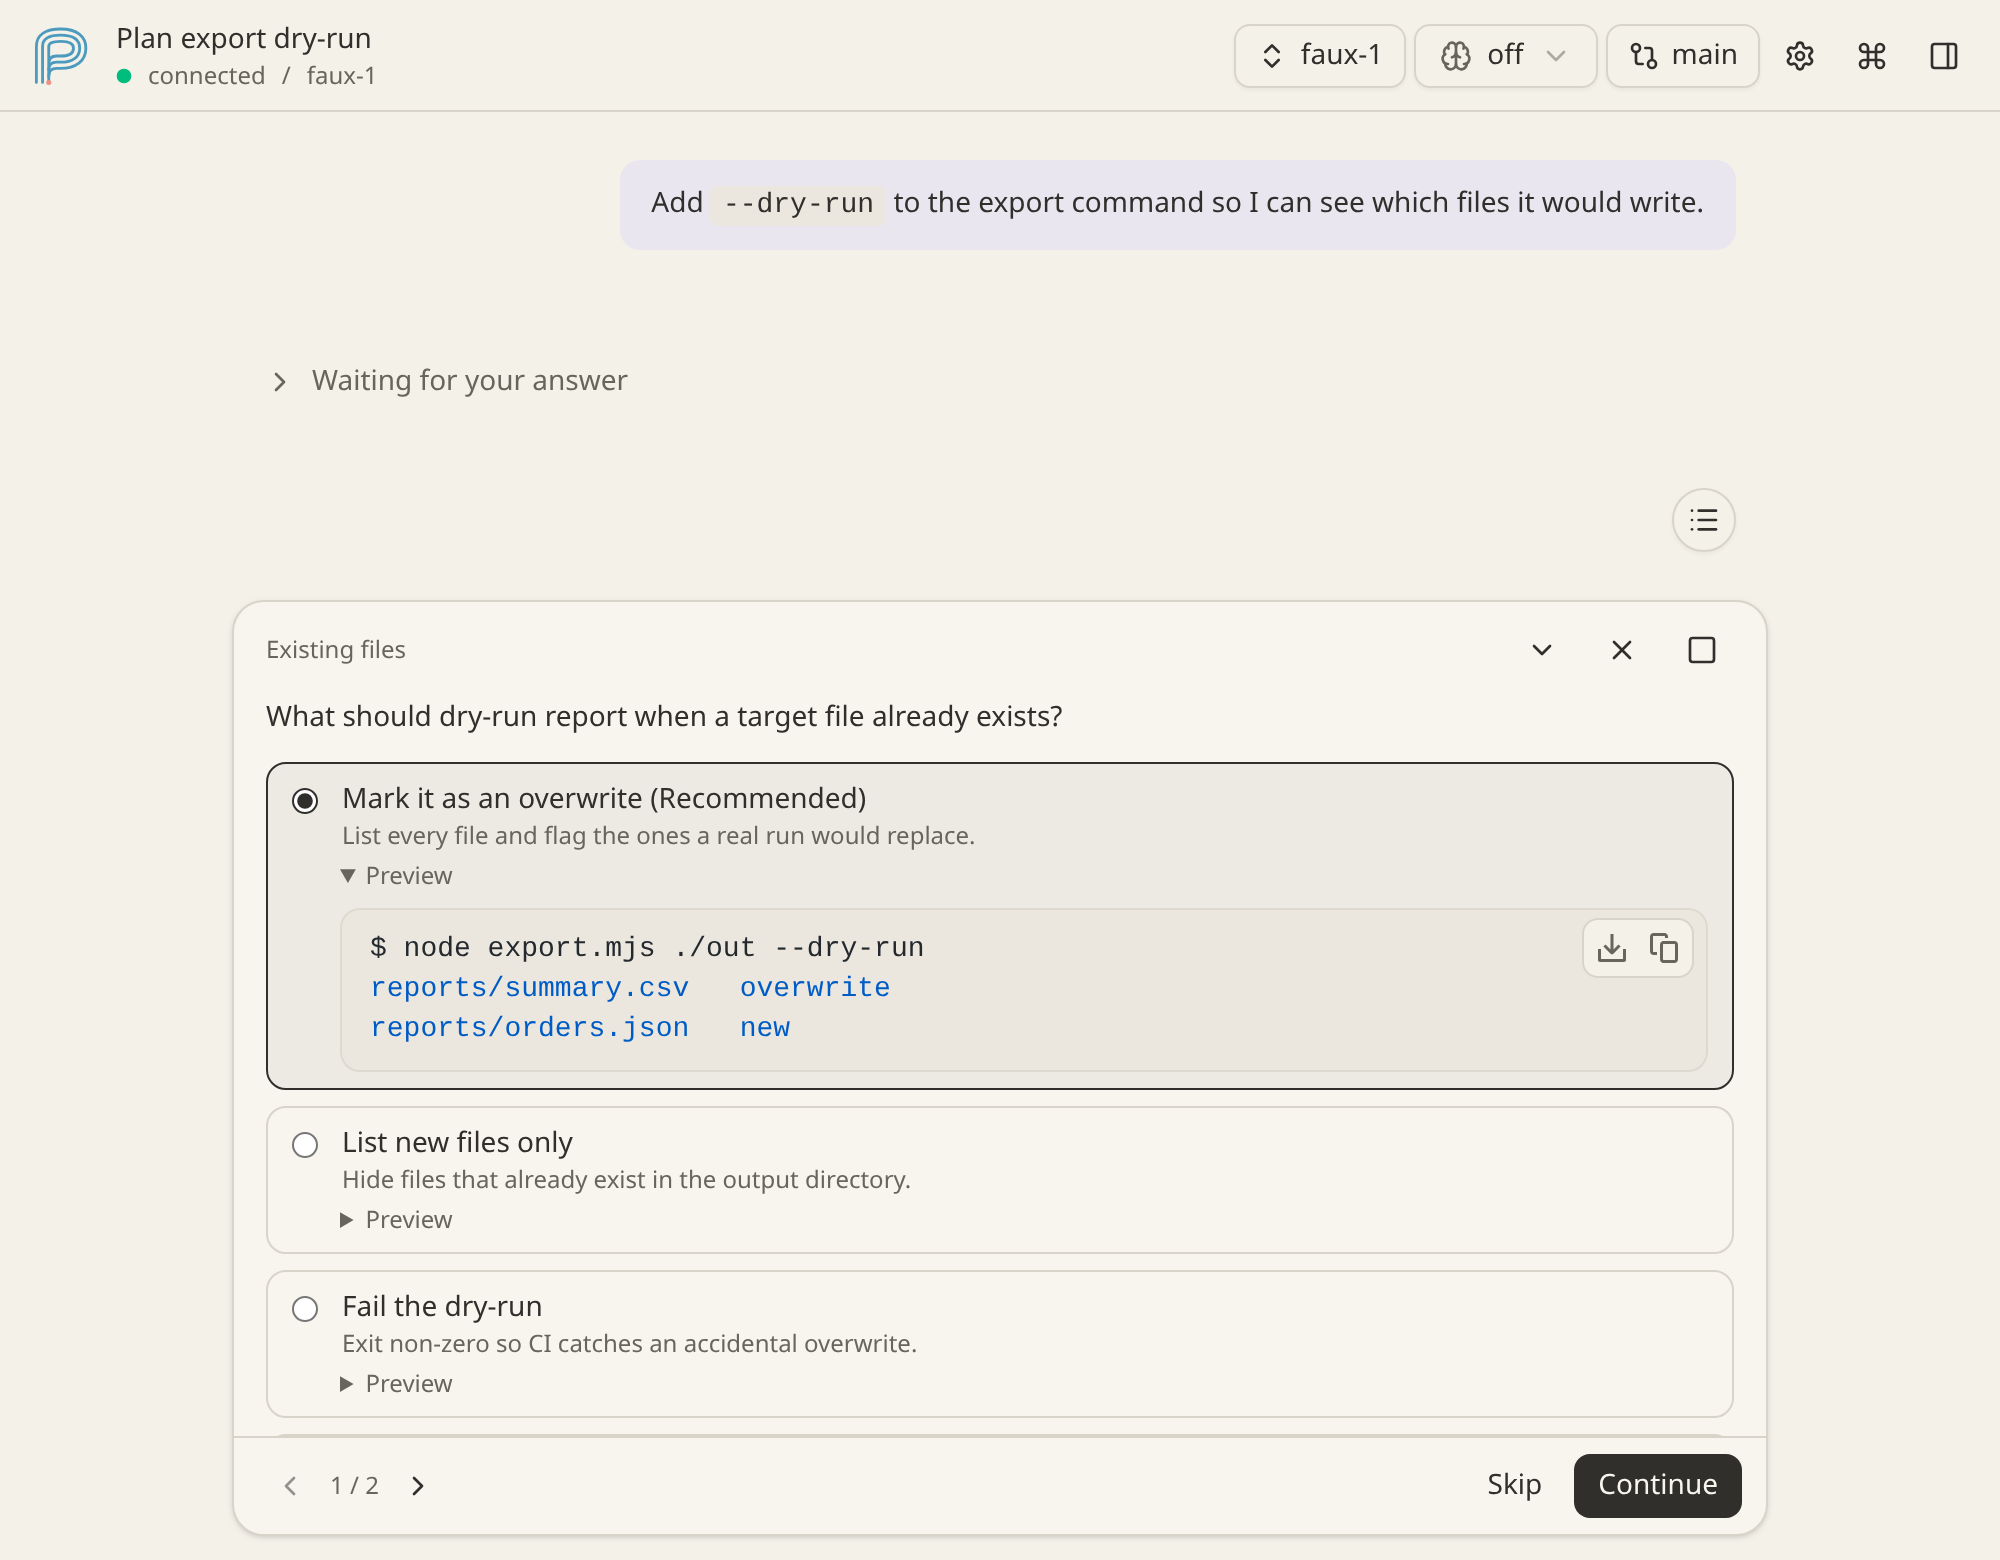
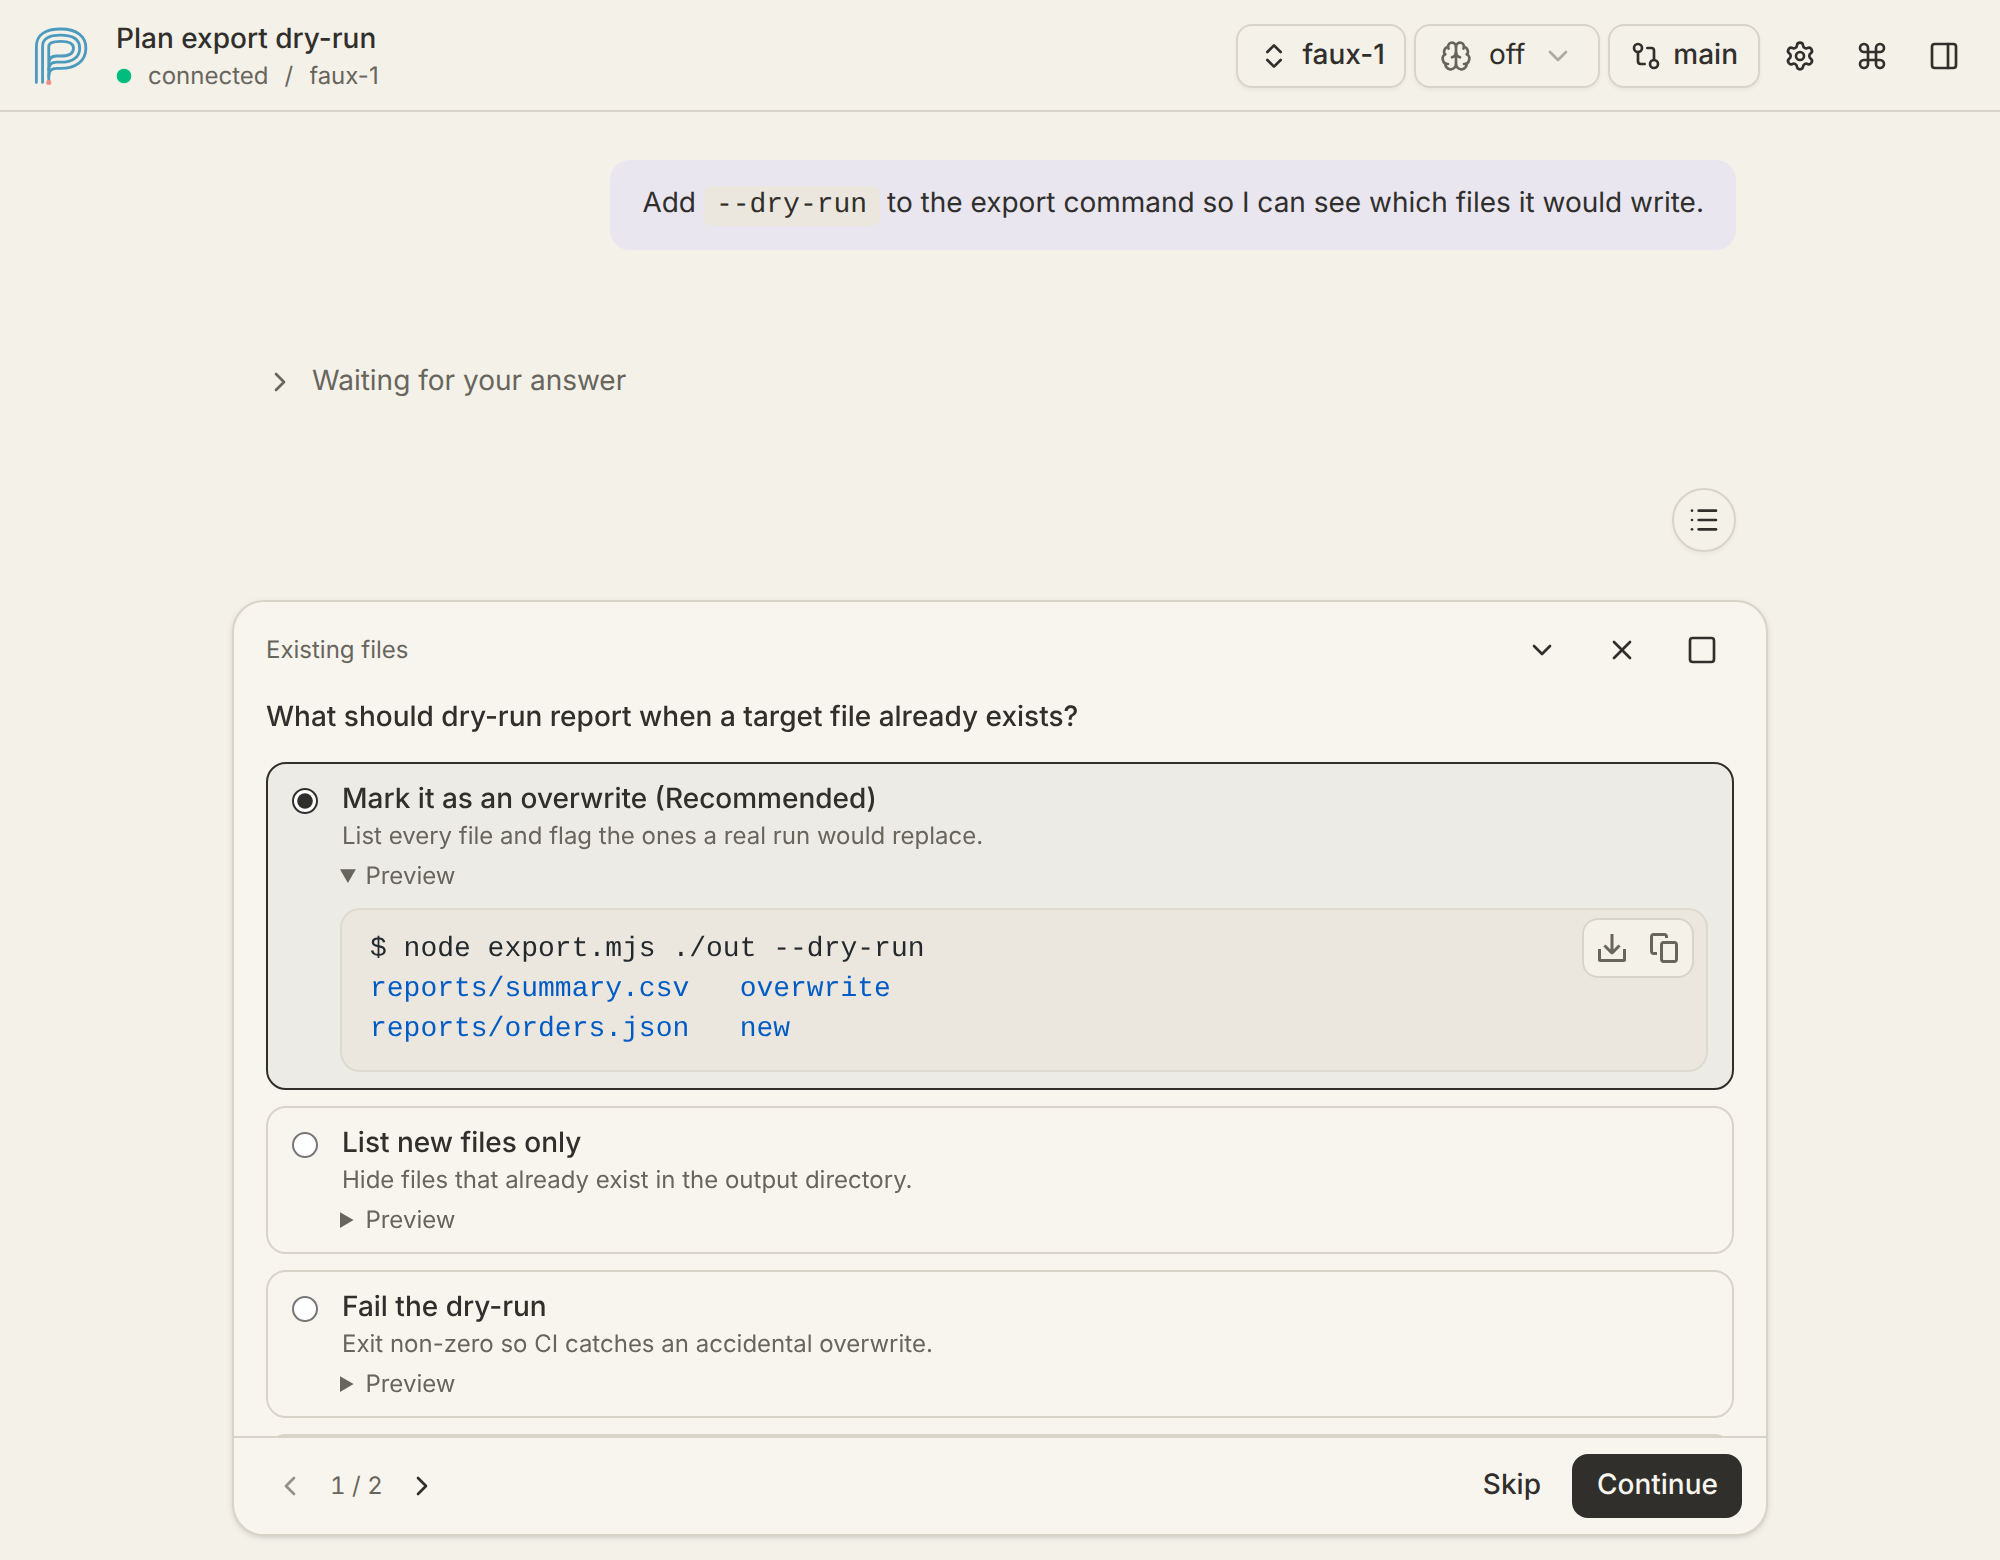
chore(e2e): render README snapshots only in a pinned image (#43)
* chore(e2e): render README snapshots only in a pinned image

`docs/images/*.png` are committed, but any `npm run e2e` rewrote them on the host, and
their bytes depend on the platform: the app ships no webfont, so
`Inter, ui-sans-serif, system-ui, …` resolves to the OS UI font and each OS rasterizes
text its own way. A macOS render could never reproduce the committed files, so every run
produced an image diff that looked exactly like a real UI change.

Split the two jobs. `npm run e2e` (and CI) now runs the chromium project only; the @readme
scenarios are the snapshot producer and run in exactly one place, `just readme-images`,
which builds `e2e/readme-image.Dockerfile` (tag from the installed @playwright/test) and
copies the result back. The image installs Inter, the first family in the app's stack:
the Playwright base image has no Latin UI font and resolved `system-ui` to WenQuanYi Zen
Hei, so Latin text rendered in a CJK face with synthesized bold.

* docs(images): rebaseline README screenshots from the pinned image

Rendered by `just readme-images` after rebasing onto #42, so the files also carry the new
silk-thread header mark. The previous files were produced on macOS, so nobody else could
reproduce them; from here an image diff means the UI changed.

diff --git a/AGENTS.md b/AGENTS.md
@@ -134,7 +134,7 @@ activation again. Recommend continuing activated sessions in Web UI.
 ├── tsconfig.json                # TypeScript config (only src/web + vite.config.ts)
 ├── vite.config.ts               # Vite config (dev proxy to :3001, build to dist/)
 ├── biome.json                   # Biome formatter/linter config
-└── justfile                     # just tasks (fmt, check)
+└── justfile                     # just tasks (fmt, check, build, readme-images)
 ```
 
 ### Architecture: Extension ↔ Frontend Communication
@@ -219,13 +219,18 @@ not proof that something is visible. See
 
 CI runs `npm run e2e` on every PR; local `just check` does not.
 
-README images (`docs/images/*.png`) are generated, not hand-made: the `@readme`
-scenarios in `e2e/features/readme-preview.feature` rewrite them on every `npm run e2e`
-(`readme` Playwright project, 2x pixel density). They are not snapshot assertions. If your
-change affects what those scenarios show, run E2E, inspect the regenerated images, and
-commit them with the change; if they changed when they should not have, treat it as a
-regression. To refresh only the images:
-`npm run build:web && npm run e2e:gen && npx playwright test -c e2e/playwright.config.ts --project=readme`.
+README images (`docs/images/*.png`) are committed snapshots generated in exactly one
+place: `just readme-images`, which runs the `@readme` scenarios from
+`e2e/features/readme-preview.feature` inside the pinned Linux image
+(`e2e/readme-image.Dockerfile`, 2x pixel density) and copies the result back. They are not
+snapshot assertions, but they are reviewable output. That project is not part of
+`npm run e2e` (chromium only) nor of CI, because the pixels depend on the platform: the app
+ships no webfont, so `Inter, ui-sans-serif, system-ui, …` resolves to the OS UI font and
+each OS rasterizes text its own way, which means a host render can never match the
+committed files. If your change affects what those scenarios show, run
+`just readme-images`, inspect the diff, and commit it with the change; if the images changed
+when they should not have, treat it as a regression and check the Playwright image tag in
+the Dockerfile before assuming a UI change.
 
 ```bash
 just check   # npx tsc --noEmit + biome check .
